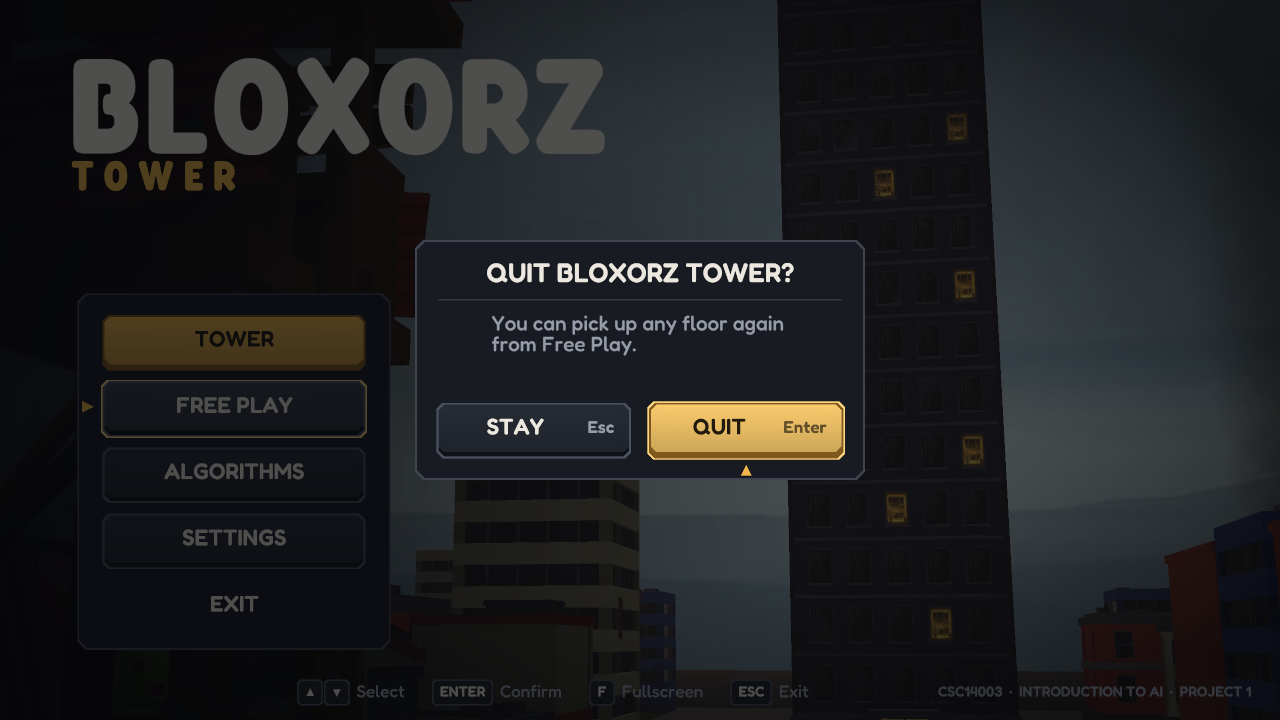
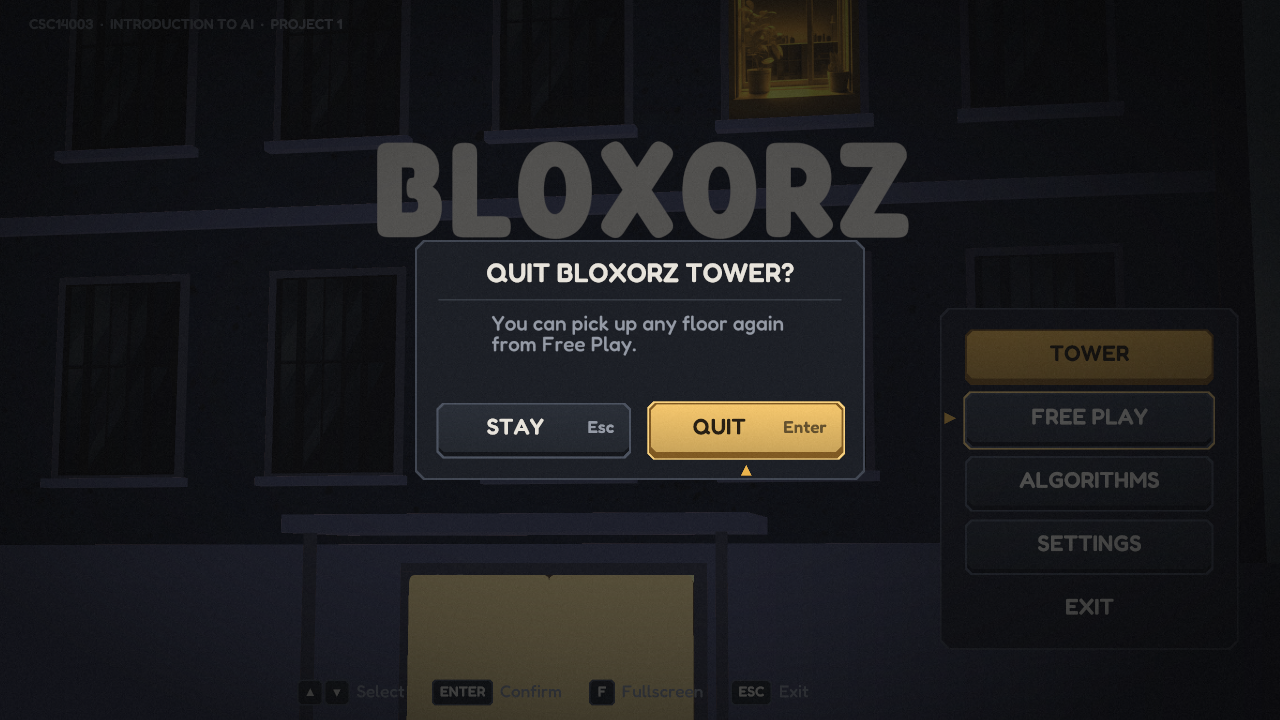
3D main menu is now the opening's title shot: menu panel in place of Enter Building, new title style, intro clamps dt and fits overlays to the window

diff --git a/Source/ui3d/intro.py b/Source/ui3d/intro.py
@@ -18,6 +18,7 @@ from ursina import Entity, Text, Vec3, camera, color, destroy, window
 from .floor import box, glow, prop
 from .street import Street
 from .world import ASSETS, floor_y, point_camera, set_exposure
+from . import theme
 from .cat import Cat, available as cat_available
 from .zombie import Horde, Zombie, available as zombies_available
 
@@ -55,8 +56,14 @@ class Intro:
         self.overlay = Entity(parent=camera.ui, model='quad', scale=(4, 2), color=color.rgba(0, 0, 0, 0), z=-1)
         self.vignette = Entity(parent=camera.ui, model='quad', texture='textures/vignette',
                                scale=(window.aspect_ratio, 1), color=color.rgba(255, 255, 255, 120), z=-0.5)
-        self.title = Text('BLOXORZ', origin=(0, 0), y=0.2, scale=6, color=color.rgba(240, 232, 220, 0))
-        self.sub = Text('T O W E R', origin=(0, 0), y=0.08, scale=2.4, color=color.rgba(226, 92, 76, 0))
+        self.title = Text('BLOXORZ', origin=(0, 0), y=0.22, scale=theme.TITLE, font=theme.FONT_TITLE,
+                          color=color.rgba(240, 232, 220, 0))
+        self.title.resolution = theme.RESOLUTION[theme.FONT_TITLE]
+        self.title.text = 'BLOXORZ'
+        self.sub = Text('T O W E R', origin=(0, 0), y=0.105, scale=2.4, font=theme.FONT_TITLE,
+                        color=color.rgba(240, 182, 74, 0))
+        self.sub.resolution = theme.RESOLUTION[theme.FONT_TITLE]
+        self.sub.text = 'T O W E R'
         self.line = Text('', origin=(0, 0), y=-0.33, scale=1.5, color=color.rgba(226, 222, 214, 0))
         self.button = Text('  Enter Building  ', origin=(0, 0), position=(0.55, -0.36), scale=1.8,
                            color=color.rgba(255, 255, 255, 0))
@@ -66,6 +73,7 @@ class Intro:
         self.skip = Text('press any key to skip', origin=(0, 0), y=-0.44, scale=1,
                          color=color.rgba(220, 220, 230, 160))
         self.t, self.done, self._lit_for = 0.0, False, None
+        self.show_button = True        # off while the main menu stands in for "Enter Building"
         self.apply()
 
     def light(self, sun_np):
@@ -273,6 +281,11 @@ class Intro:
         return (Vec3(cx + _lerp(5.0, 3.2, k), b + 2.0, self.door.z - _lerp(15, 12, k)),
                 Vec3(cx, b + 4.2, self.cz))
 
+    @property
+    def at_title(self):
+        """The last shot: the title over the tower's doors."""
+        return self.t >= sum(SHOTS)
+
     def skip_or_enter(self):
         if self.t < sum(SHOTS):
             self.t = sum(SHOTS)
@@ -280,6 +293,7 @@ class Intro:
             self.done = True
 
     def step(self, dt):
+        dt = min(dt, 1 / 20)     # a loading hitch (building the set, first zombie) must not skip the film
         self.t += dt
         self.apply(dt)
 
@@ -307,15 +321,19 @@ class Intro:
             fade = max(fade, 1 - min(1.0, abs(t - SHOTS[0] / 2) / (FADE / 2)))
         self.overlay.color = color.rgba(0, 0, 0, int(255 * fade))
         self.noise.texture_offset = (random.random(), random.random())   # film grain flicker
+        if self.vignette.scale_x != window.aspect_ratio:     # Ursina learns the real window shape a frame late
+            self.vignette.scale_x = self.noise.scale_x = window.aspect_ratio
+            self.noise.texture_scale = (window.aspect_ratio * 3, 3)
         show = min(1.0, t / 0.6) * min(1.0, (SHOTS[i] - t) / 0.6) * (1 - fade)
         self.line.text = LINES[i]
         self.line.color = color.rgba(226, 222, 214, int(210 * max(0.0, show)))
         a = 0.0 if i < 4 else min(1.0, t / 1.2)
         self.title.color = color.rgba(240, 232, 220, int(255 * a))
-        self.sub.color = color.rgba(226, 92, 76, int(255 * a))
+        self.sub.color = color.rgba(240, 182, 74, int(255 * a))
         ready = self.t >= sum(SHOTS)
-        self.button.color = color.rgba(255, 255, 255, int(255 * a) if i == 4 else 0)
-        self.frame.color = color.rgba(20, 22, 34, int(200 * a) if i == 4 else 0)
+        shown = i == 4 and self.show_button
+        self.button.color = color.rgba(255, 255, 255, int(255 * a) if shown else 0)
+        self.frame.color = color.rgba(20, 22, 34, int(200 * a) if shown else 0)
         self.skip.enabled = not ready and i < 4
 
     def destroy(self):

diff --git a/Source/ui3d/app.py b/Source/ui3d/app.py
@@ -4,7 +4,6 @@ from ursina import Button, Entity, Text, application, camera, color, destroy, in
 from engine.catalog import TUTORIAL_TIPS, level_label, levels_for_mode
 
 from . import widgets as w
-from .backdrop import CityBackdrop
 from .free_play import FreePlayGame
 from .game import TowerGame
 from .screens.loading import LoadingScreen
@@ -19,7 +18,7 @@ class App3D(Entity):
         self.scene = None
         self.menu_root = None
         self.loading_root = None
-        self.backdrop = None
+        self.first_title = True       # the opening plays in full only the first time
         self.state = 'main'
         self.free_mode = 'normal'
         levels = levels_for_mode(self.free_mode)
@@ -49,15 +48,9 @@ class App3D(Entity):
             destroy(self.loading_root)
             self.loading_root = None
 
-    def _drop_backdrop(self):
-        if self.backdrop is not None:
-            self.backdrop.close()
-            self.backdrop = None
-
     def _show_loading(self, message):
         self._clear_menu()
         self._clear_scene()
-        self._drop_backdrop()
         self._clear_loading()
         self.state = 'loading'
         window.color = color.rgb(8, 12, 26)
@@ -76,28 +69,49 @@ class App3D(Entity):
         invoke(lambda: self.start_free_play(level_number), delay=.01)
 
     # ---- main menu ----
+    # The menu is the opening's last shot: Justin's intro ends on the title over the tower doors, and the
+    # menu panel takes the place of "Enter Building". Tower then walks in exactly as the intro would.
     def main_menu(self):
         self._clear_scene()
         self._clear_menu()
-        if self.backdrop is None:                # first visit, or back from a game: build the city first
-            self._clear_loading()
-            self.state = 'loading'
-            self.backdrop = CityBackdrop(self.sun)
-            self.loading_root = LoadingScreen('Loading')
-            self.loading_root.run(self.backdrop.build_steps(), self._show_main_menu)
-            return
-        self._show_main_menu()
+        self._clear_loading()
+        self.state = 'loading'
+        self.loading_root = LoadingScreen('Loading')
+        self.loading_root.run(self._build_title(), self._await_title)
+
+    def _build_title(self):
+        yield .15, 'Clearing the street'
+        self.scene = TowerGame(self.sun, on_menu=self._game_menu)
+        self.scene.menu_hold = True
+        self.scene.intro.show_button = False
+        if not self.first_title:                 # back from a game: straight to the title shot
+            self.scene.intro.skip_or_enter()
+        self.first_title = False
+        yield 1.0, 'Ready'
+
+    def _await_title(self):
+        self._clear_loading()
+        self.state = 'intro'                     # update() opens the menu once the title is up
+
+    def update(self):
+        if self.state == 'intro' and self.scene is not None and self.scene.intro.at_title:
+            self._show_main_menu()
 
     def _show_main_menu(self):
-        self._clear_loading()
         self._clear_menu()
         self.state = 'main'
         self.menu_root = MainMenu({
-            'tower': self.start_tower,
+            'tower': self._enter_tower,
             'free_play': self.free_play_menu,
             'algorithms': self._algorithms_notice,
             'settings': self._settings_notice,
         })
+
+    def _enter_tower(self):
+        self._clear_menu()
+        self.state = 'game'
+        self.scene.menu_hold = False
+        self.scene.intro.skip_or_enter()         # at the title this walks into the lobby
 
     def _algorithms_notice(self):
         w.Toast('Algorithms mode arrives in the next build step')
@@ -188,7 +202,7 @@ class App3D(Entity):
 
     # ---- input for menus ----
     def input(self, key):
-        if self.state in ('main', 'free', 'loading'):
+        if self.state in ('main', 'free', 'loading', 'intro'):
             if key == 'f':
                 window.fullscreen = not window.fullscreen
                 return

diff --git a/Source/ui3d/screens/main_menu.py b/Source/ui3d/screens/main_menu.py
@@ -1,4 +1,4 @@
-"""Main menu over the city backdrop: title on the left, one control panel, key hints along the bottom."""
+"""Main menu: a control panel over the opening's last shot (the title above the tower doors)."""
 from ursina import Entity, application, camera, color, destroy, window
 
 from .. import theme
@@ -6,40 +6,41 @@ from .. import widgets as w
 
 
 class MainMenu(Entity):
-    """actions: dict with 'tower', 'free_play', 'algorithms', 'settings' callbacks; Exit asks first."""
+    """The control panel over the opening's title shot.
+
+    The title is the intro's own (ui3d/intro.py); the panel stands where "Enter Building" was, on the
+    lower right, clear of the title and the lit doors in the middle.
+    actions: dict with 'tower', 'free_play', 'algorithms', 'settings' callbacks; Exit asks first.
+    """
 
     def __init__(self, actions):
         super().__init__(parent=camera.ui)
         self.actions = actions
         a = window.aspect_ratio / 2
-        left = -a + .09
-        # shade the left of the picture so the panel reads over the bright street
-        Entity(parent=self, model='quad', texture='horizontal_gradient', scale=(a * 1.3, 1),
-               x=-a + a * .65, color=color.rgba(8, 9, 13, 225), z=.05)
-        Entity(parent=self, model='quad', texture='vignette', scale=(a * 2, 1), color=color.rgba(0, 0, 0, 150),
-               z=.04)
+        # shade the right of the picture so the panel reads over the facade
+        shade = Entity(parent=self, model='quad', texture='horizontal_gradient', scale=(a * .9, 1),
+                       x=a - a * .45, color=color.rgba(8, 9, 13, 200), z=.05)
+        shade.rotation_z = 180
 
-        title = w.label(self, 'BLOXORZ', theme.TITLE, theme.TEXT, theme.FONT_TITLE, origin=(-.5, .5),
-                        x=left, y=.43)
-        w.label(self, 'T O W E R', theme.SUBHEAD * 1.55, theme.GOLD, theme.FONT_TITLE, origin=(-.5, .5),
-                x=left + .008, y=title.y - title.height * .8)
-
-        bw, bh = .36, theme.BUTTON_H
+        bw, bh = .34, theme.BUTTON_H
         rows = [('Tower', 'tower', 'primary'), ('Free Play', 'free_play', 'secondary'),
                 ('Algorithms', 'algorithms', 'secondary'), ('Settings', 'settings', 'secondary'),
                 ('Exit', None, 'quiet')]
-        gap = bh + .026
+        gap = bh + .022
         ph = gap * len(rows) + .03
-        panel = w.Panel(bw + .07, ph, parent=self, x=left + (bw + .07) / 2 + .02, y=.07 - ph / 2 + .02)
+        pw = bw + .07
+        panel = w.Panel(pw, ph, parent=self, x=a - .06 - pw / 2, y=-.4 + ph / 2)
         self.group = w.FocusGroup()
         top = ph / 2 - .03 - bh / 2
         for i, (text, key, kind) in enumerate(rows):
             action = self._exit if key is None else (lambda k=key: self._go(k))
             w.UIButton(text, action, parent=panel, y=top - i * gap, w=bw, kind=kind, group=self.group)
         self.group.focus_first()
+        panel.scale = .96
+        panel.animate_scale(1, duration=theme.MEDIUM)
 
         w.label(self, 'CSC14003  ·  INTRODUCTION TO AI  ·  PROJECT 1', theme.TINY, theme.MUTED, theme.FONT_LABEL,
-                origin=(.5, 0), x=a - .04, y=-.462)
+                origin=(-.5, 0), x=-a + .04, y=.465)
         w.KeyHint([('updown', 'Select'), ('Enter', 'Confirm'), ('F', 'Fullscreen'), ('Esc', 'Exit')],
                   parent=self, x=-.12)
 

diff --git a/Source/ui3d/game.py b/Source/ui3d/game.py
@@ -74,6 +74,7 @@ class TowerGame(Entity):
         self.intro = Intro(self.floor, self.tower.count, *self._camera_for(self.floor))
         self.intro.light(self.sun)
         self.phase = 'intro'
+        self.menu_hold = False      # set by the app: keys go to its menu once the title is up
         self._show_hud(False)
         self._show_floor(False)                              # the lobby sits inside the intro's tower
 
@@ -146,6 +147,10 @@ class TowerGame(Entity):
 
     # ---- input ----
     def input(self, key):
+        if self.phase == 'intro' and self.menu_hold:             # the main menu sits on the intro's last shot
+            if not self.intro.at_title and not key.endswith(' up'):
+                self.intro.skip_or_enter()
+            return
         if key == 'escape':
             if self.on_menu is not None:
                 self.on_menu()

diff --git a/Source/ui3d/widgets.py b/Source/ui3d/widgets.py
@@ -824,6 +824,7 @@ class KeyHint(Entity):
         total = cursor - .04
         for g in parts:
             g.x -= total / 2
+        plate(self, total + .04, h + .022, theme.PANEL, theme.CHAMFER, shade=False, z=.004)   # readable on any scene
 
 
 class Toast(Entity):
